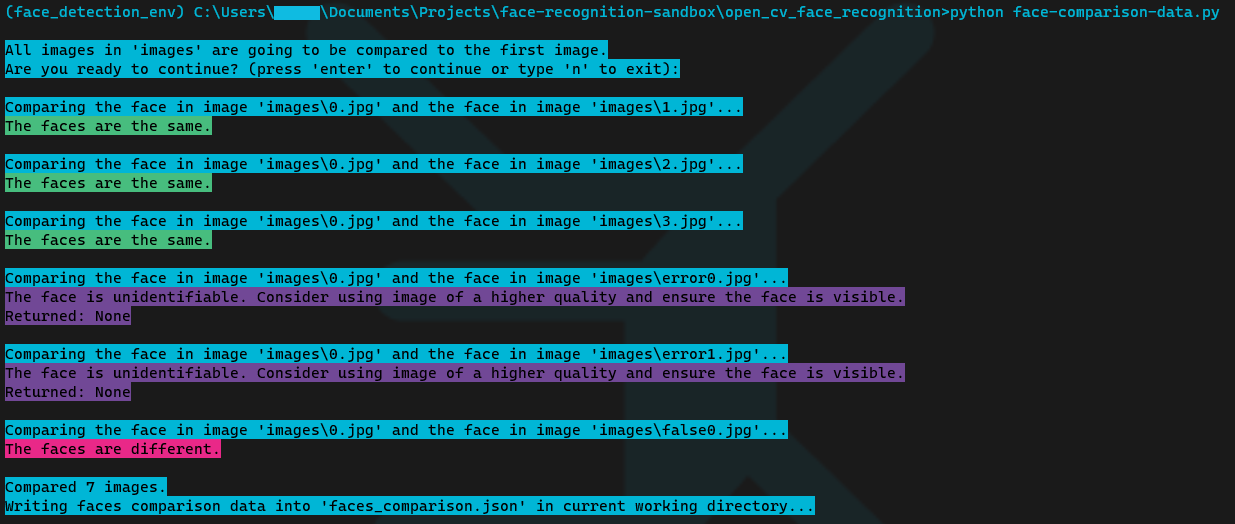
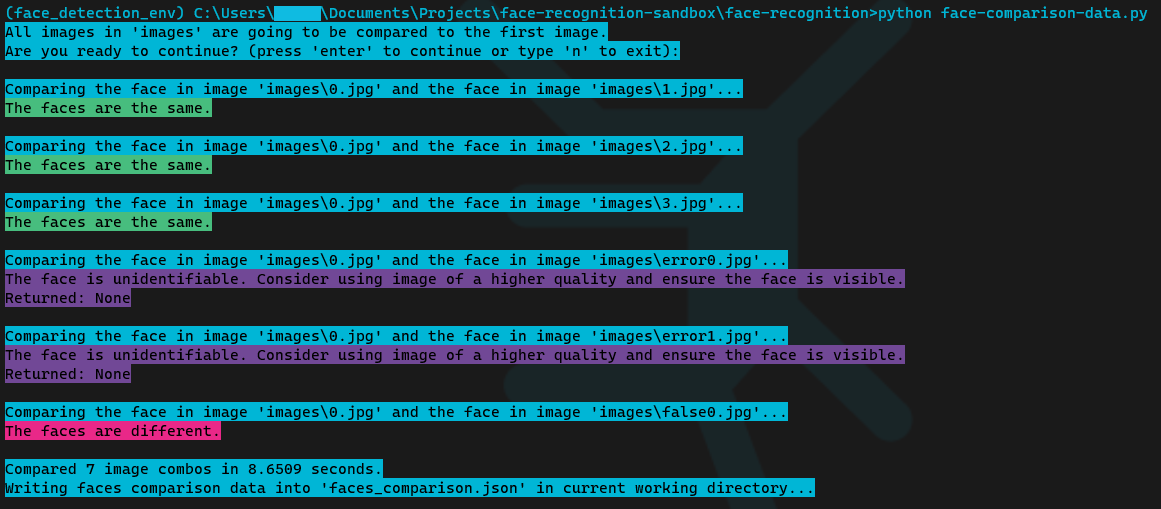
[feat] Add code run timers

diff --git a/face-recognition/face-comparison-data.py b/face-recognition/face-comparison-data.py
@@ -2,11 +2,15 @@ import os
 import sys
 import itertools
 import json
+import time
 from typing import Optional
 from colorama import Fore
 from colorama import Back
 from colorama import Style
 import face_recognition
+from colorama import init
+
+init(autoreset=True)
 
 
 def compare_images(img_1: str, img_2: str, tlr: float) -> Optional[str]:
@@ -23,7 +27,7 @@ def compare_images(img_1: str, img_2: str, tlr: float) -> Optional[str]:
     """
 
     # Print a message indicating that the comparison is starting
-    print(Back.CYAN + Fore.BLACK + f"\nComparing the face in image '{img_1}' and the face in image '{img_2}'..." + Style.RESET_ALL)
+    print(Style.RESET_ALL + Back.CYAN + Fore.BLACK + f"\nComparing the face in image '{img_1}' and the face in image '{img_2}'...")
 
     # Load the images
     base_image = face_recognition.load_image_file(img_1)
@@ -35,7 +39,7 @@ def compare_images(img_1: str, img_2: str, tlr: float) -> Optional[str]:
         candidate_encoding = face_recognition.face_encodings(candidate_image)[0]
     except IndexError as e:
         # If a face cannot be found in the image, print a message and set status to an empty string
-        print(Back.MAGENTA + Fore.BLACK + "The face is unidentifiable. Consider using image of a higher quality and ensure the face is visible." + Style.RESET_ALL)
+        print(Back.MAGENTA + Fore.BLACK + "The face is unidentifiable. Consider using image of a higher quality and ensure the face is visible.")
         status = ""
 
     try:
@@ -52,22 +56,22 @@ def compare_images(img_1: str, img_2: str, tlr: float) -> Optional[str]:
     status = None
     # Print a message indicating the result of the comparison and set the status accordingly
     if results == True:
-        print(Back.GREEN + Fore.BLACK + f"The faces are the same." + Style.RESET_ALL)
+        print(Back.GREEN + Fore.BLACK + f"The faces are the same.")
         status = True 
     
     elif results == False:
-        print(Back.RED + Fore.BLACK + f"The faces are different." + Style.RESET_ALL)
+        print(Back.RED + Fore.BLACK + f"The faces are different.")
         status = False
     
     else:
-        print(Back.MAGENTA + Fore.BLACK + f"Returned: {results}" + Style.RESET_ALL)
+        print(Back.MAGENTA + Fore.BLACK + f"Returned: {results}")
         status = ''
 
     # Return a dictionary containing the file paths of the input images and the comparison result
     return {"img1":img_1,"img2":img_2,"same":status}
 
 
-def main(image_dir: str, tlr: float=0.6, json_out: bool=False) -> Optional[str]:
+def compare_image_combos(image_dir: str, tlr: float=0.6, json_out: bool=False) -> Optional[str]:
     """
     This function compares all pairs of images in a specified directory.
 
@@ -81,16 +85,19 @@ def main(image_dir: str, tlr: float=0.6, json_out: bool=False) -> Optional[str]:
     """
 
     # Print a message indicating that all images will be compared to the first image in the directory
-    print("\n" + Back.CYAN + Fore.BLACK + f"All images in '{image_dir}' are going to be compared to the first image." + Style.RESET_ALL)
+    print(Back.CYAN + Fore.BLACK + f"All images in '{image_dir}' are going to be compared to the first image.")
     
     # Ask the user if they are ready to continue
     ready = input(Back.CYAN + Fore.BLACK + "Are you ready to continue? (press 'enter' to continue or type 'n' to exit):" + Style.RESET_ALL + " ")
     if ready == "":
         pass
     else:
-        print(Back.CYAN + Fore.BLACK + "\nExit" + Style.RESET_ALL)
+        print(Back.CYAN + Fore.BLACK + "\nExit")
         sys.exit()
-    
+
+    # Start the timer
+    tic = time.perf_counter()
+
     # Get all image filenames in the directory
     image_filenames = [f for f in os.listdir(image_dir) if os.path.isfile(os.path.join(image_dir, f))]
 
@@ -109,12 +116,15 @@ def main(image_dir: str, tlr: float=0.6, json_out: bool=False) -> Optional[str]:
 
         # Stop comparison when all combinations with the first image have been performed
         # '-2' since combinations() doesn't combine image with itself and number of elements > index of the last element by 1
-        if index == len(image_filenames)-2: 
-            print("\n" + Back.CYAN + Fore.BLACK + f"Compared {len(image_filenames)} images." + Style.RESET_ALL)
+        if index == len(image_filenames)-2:
+            # Stop the timer
+            toc = time.perf_counter() 
+            # Print the elapsed time
+            print("\n" + Back.CYAN + Fore.BLACK + f"Compared {len(image_filenames)} image combos in {toc - tic:0.4f} seconds.")
             
             # Write comparison results to .json file if parameter set to True
             if json_out:
-                print(Back.CYAN + Fore.BLACK + f"Writing faces comparison data into 'faces_comparison.json' in current working directory..." + Style.RESET_ALL)
+                print(Back.CYAN + Fore.BLACK + f"Writing faces comparison data into 'faces_comparison.json' in current working directory...")
                 with open("faces_comparison.json", "w") as f:
                     json.dump(comparison_results, f)
             sys.exit()
@@ -123,5 +133,15 @@ def main(image_dir: str, tlr: float=0.6, json_out: bool=False) -> Optional[str]:
     return comparison_results
 
 
+def main():
+    
+    # Run the face comparison for all combinations of images in the directory
+    compare_image_combos(
+        image_dir="images",
+        tlr=0.6, 
+        json_out=True
+        )
+
+
 if __name__ == "__main__":
-    main(image_dir="images", tlr=0.6, json_out=True)
+    main()

diff --git a/face-recognition/face-comparison.py b/face-recognition/face-comparison.py
@@ -1,58 +1,70 @@
+# Import necessary libraries
 from os import path
 import sys
+import time
 from colorama import Fore
 from colorama import Back
 from colorama import Style
 import face_recognition
 
-
+# Function to compare faces in two images
 def compare_faces(folder: str, img_1: str, img_2: str, tlr: float) -> None:
+    # Check if the input directory exists
+    if not path.isdir(folder):
+        # Print error message and exit if directory does not exist
+        print(Back.MAGENTA + Fore.BLACK + f"Input directory '{folder}' does not exist." + Style.RESET_ALL)
+        sys.exit()
 
-	# Check if the input directory exists
-	if not path.isdir(folder):
-	    print(Back.MAGENTA + Fore.BLACK + f"Input directory '{folder}' does not exist." + Style.RESET_ALL)
-	    sys.exit()
+    # Print status message
+    print(Back.CYAN + Fore.BLACK + f"Comparing the face in image '{img_1}' and the face in image '{img_2}'..." + Style.RESET_ALL)
 
-	print(Back.CYAN + Fore.BLACK + f"Comparing the face in image '{img_1}' and the face in image '{img_2}'..."+ Style.RESET_ALL)
+    # Load the base and candidate images
+    base_image = face_recognition.load_image_file(path.join(folder, img_1))
+    candidate_image = face_recognition.load_image_file(path.join(folder, img_2))
 
-	base_image = face_recognition.load_image_file(path.join(folder, img_1))
-	candidate_image = face_recognition.load_image_file(path.join(folder, img_2))
+    try:
+        # Get the face encodings for the base and candidate images
+        base_encoding = face_recognition.face_encodings(base_image)[0]
+        candidate_encoding = face_recognition.face_encodings(candidate_image)[0]
+    except IndexError as e:
+        # Print error message and exit if face is unidentifiable
+        print(Back.MAGENTA + Fore.BLACK + "The face is unidentifiable. Consider using image of a higher quality and ensure the face is visible." + Style.RESET_ALL)
+        sys.exit()
 
-	try:
-		base_encoding = face_recognition.face_encodings(base_image)[0]
-		candidate_encoding = face_recognition.face_encodings(candidate_image)[0]
-	except IndexError as e:
-		print(Back.MAGENTA + Fore.BLACK + "The face is unidentifiable. Consider using image of a higher quality and ensure the face is visible." + Style.RESET_ALL)
-		sys.exit()
+    # Run face_recognition function
+    results = face_recognition.compare_faces(
+        [base_encoding], 
+        candidate_encoding, 
+        tolerance=tlr # Adjust the max euclidean distance between the face vectors (lower = more strict) 0.6 by default
+        )[0]
 
-	# Run face_recognition function
-	results = face_recognition.compare_faces(
-		[base_encoding], 
-		candidate_encoding, 
-		tolerance=tlr # Adjust the max euclidean distance between the face vectors (lower = more strict) 0.6 by default
-		)[0]
+    # Print the result of the face comparison
+    if results == True:
+        print(Back.GREEN + Fore.BLACK + f"The face in '{img_1}' and the face in '{img_2}' are the same." + Style.RESET_ALL) 
+    elif results == False:
+        print(Back.RED + Fore.BLACK + f"The face in '{img_1}' and the face in '{img_2}' are different." + Style.RESET_ALL)
+    else:
+        print(Back.MAGENTA + Fore.BLACK + f"Got something weird: {results}" + Style.RESET_ALL)
 
-	# Return stylized status of the dace_recognition run
-	if results == True:
-		print(Back.GREEN + Fore.BLACK + f"The face in '{img_1}' and the face in '{img_2}' are the same." + Style.RESET_ALL) 
-	elif results == False:
-		print(Back.RED + Fore.BLACK + f"The face in '{img_1}' and the face in '{img_2}' are different." + Style.RESET_ALL)
-	else:
-		print(Back.MAGENTA + Fore.BLACK + f"Got something weird: {results}" + Style.RESET_ALL)
-
-
+# Main function
 def main():
-	folder = "images"
-	img_1 = "2.jpg"
-	# img_2 = "3.jpg"
-	img_2 = "false0.jpg" # TEST: similar face but different person in real life; should return False
-	# img_2 = "error0.jpg" # TEST: the face is not visible; should return Error
-	tlr = 0.6 
+    # Define the folder and image names
+    folder = "images"
+    img_1 = "2.jpg"
+    img_2 = "false0.jpg" # TEST: similar face but different person in real life; should return False
+    tlr = 0.6 
 
-	compare_faces(folder, img_1, img_2, tlr)
+    # Start the timer
+    tic = time.perf_counter()
+    # Run the face comparison
+    compare_faces(folder, img_1, img_2, tlr)
+    # Stop the timer
+    toc = time.perf_counter()
+    # Print the elapsed time
+    print(Back.CYAN + Fore.BLACK + f"\nCompared images in {toc - tic:0.4f} seconds"+ Style.RESET_ALL)
 
-
+# Run the main function
 if __name__ == '__main__':
-	main()
+    main()
 
 
